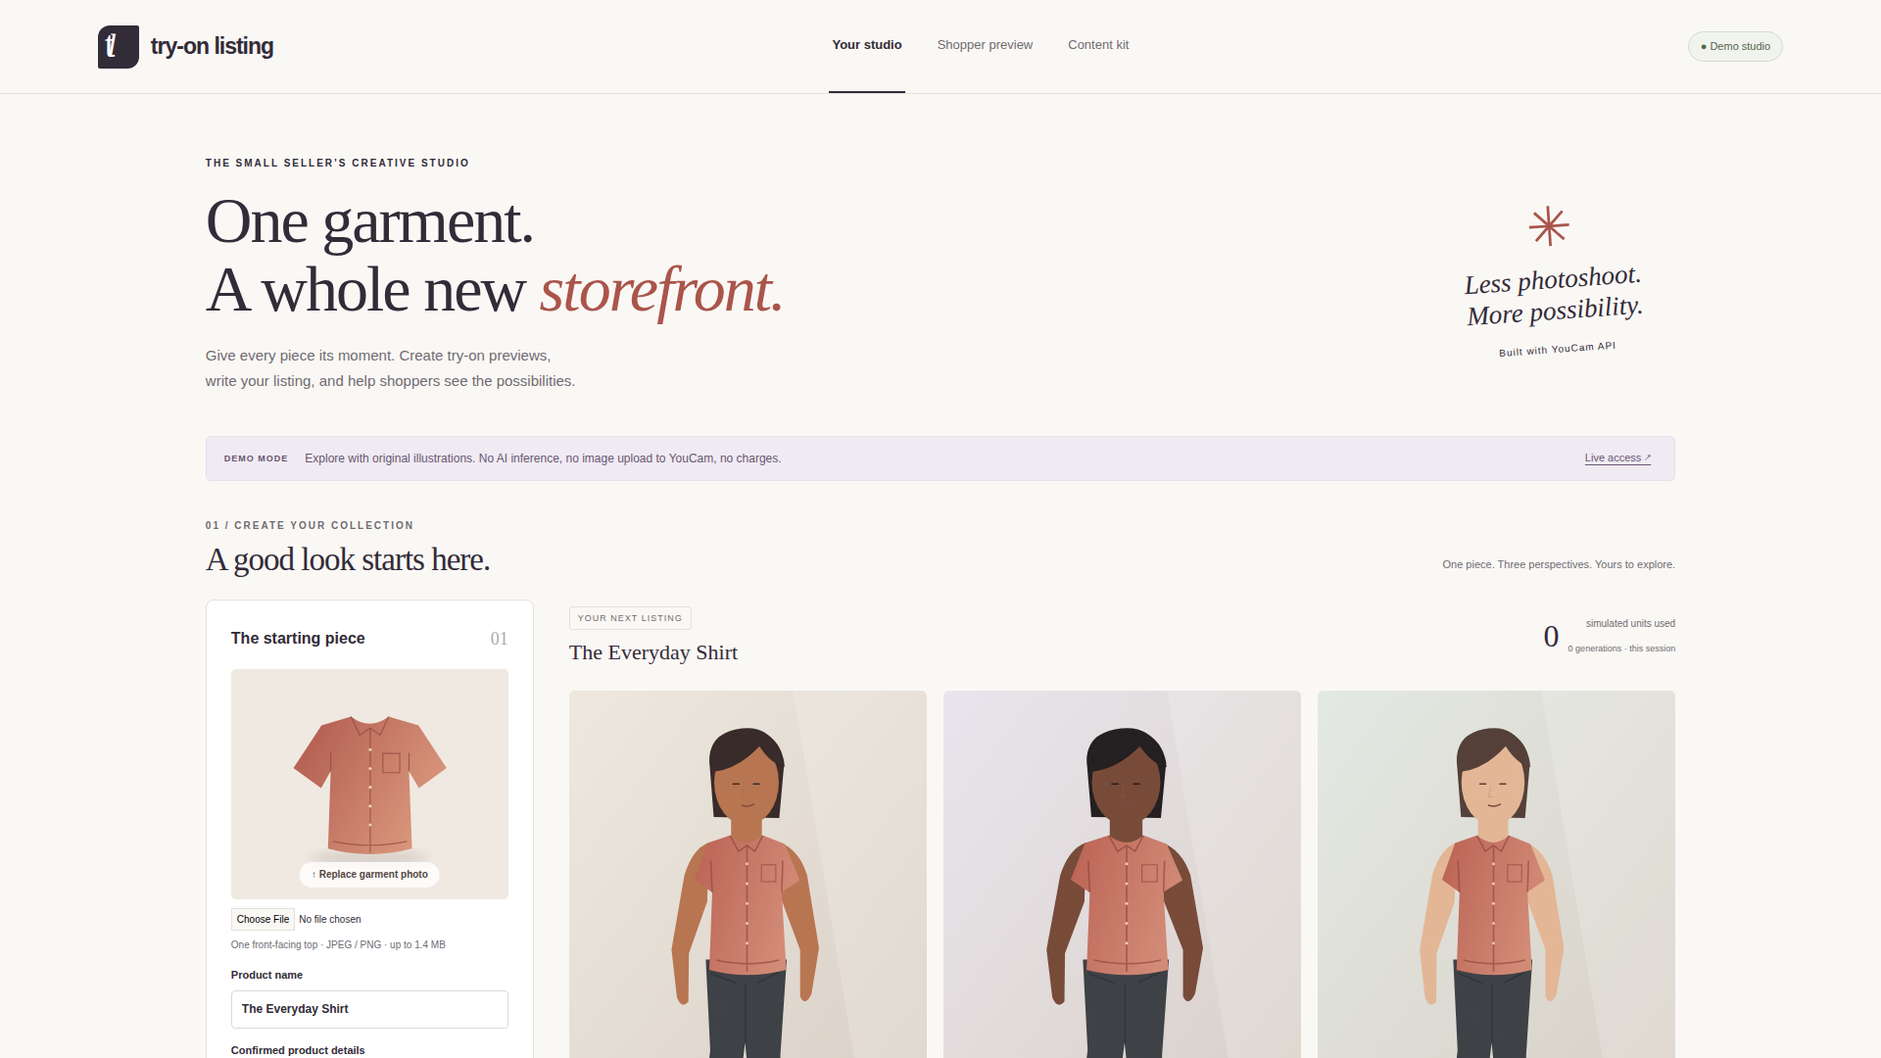
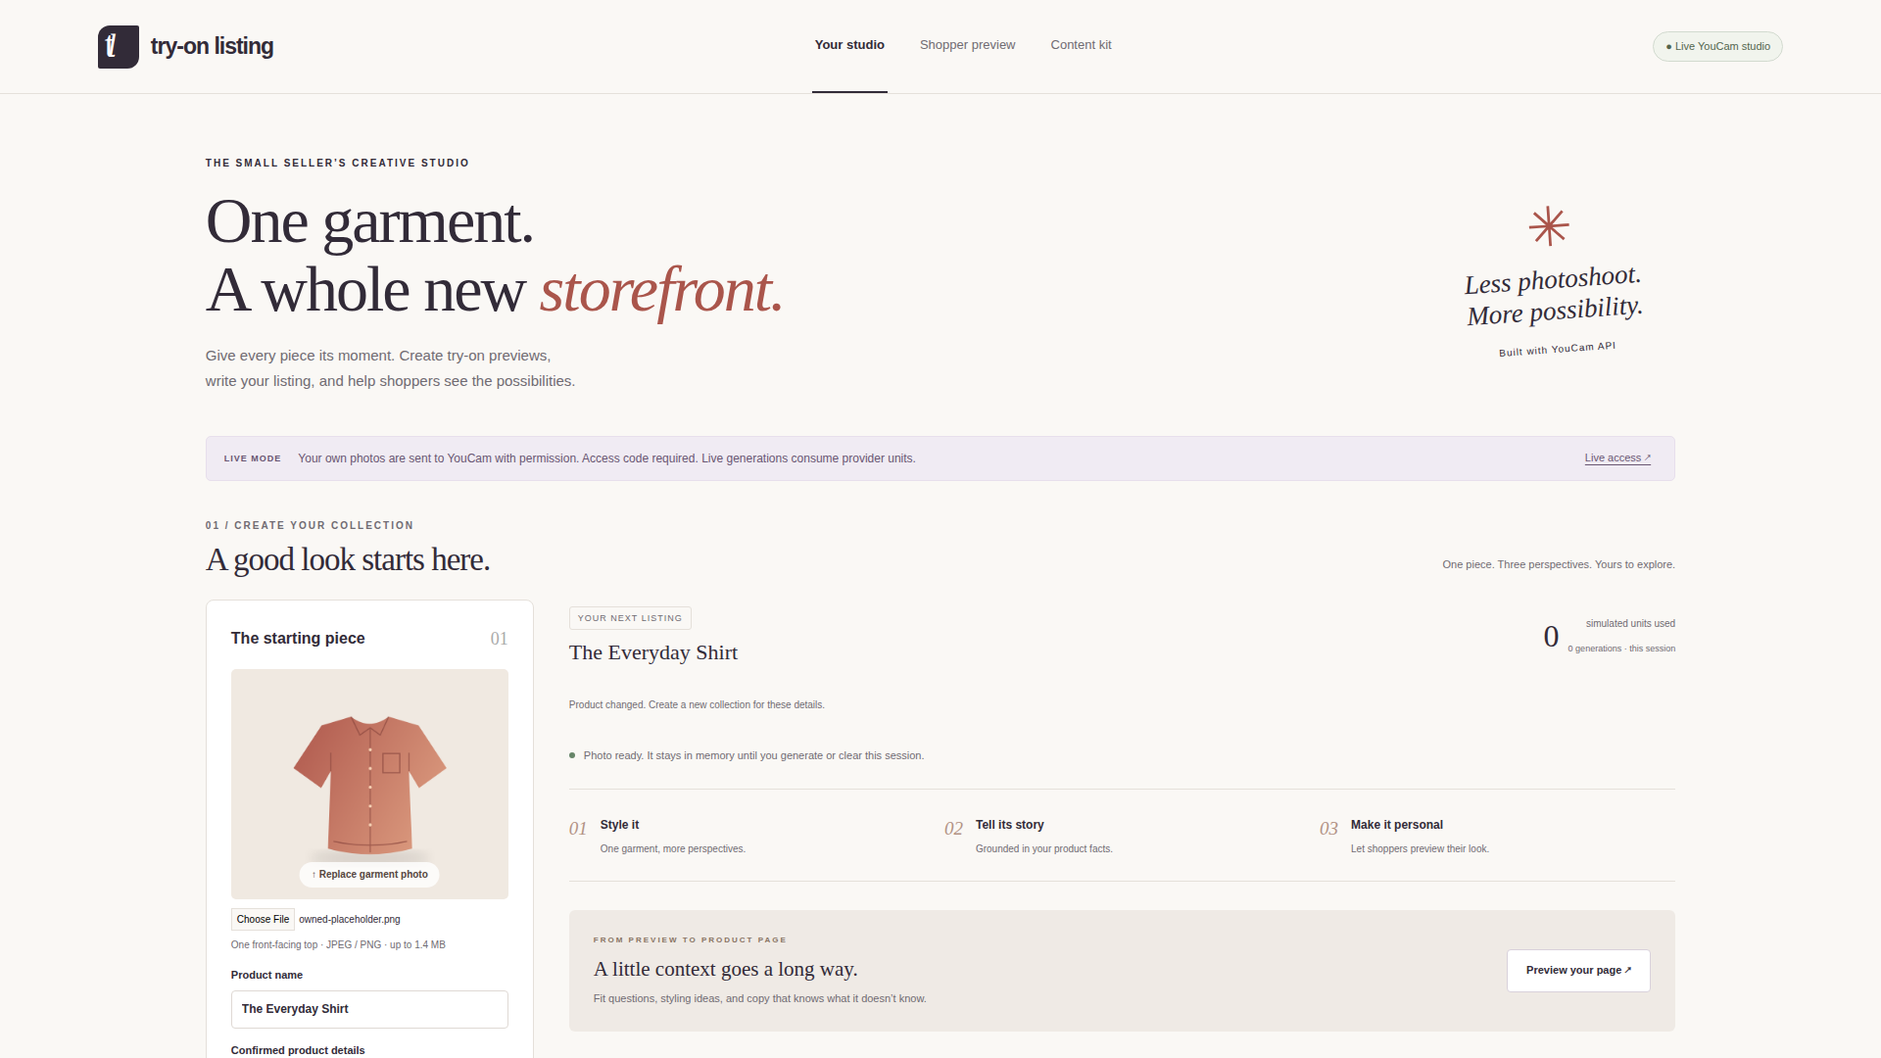
Enable verified live Nebius copy and YouCam production flows

diff --git a/src/commerce.js b/src/commerce.js
@@ -1,7 +1,7 @@
 // Reused from our MIT commerce-content-engine/src/core.js. Copyright (c) 2026 Kyoungsoo Kim.
 // Shared, dependency-free core. No DOM or Node APIs.
 export const PROVIDERS = {
-  nebius: { model: 'nvidia/NVIDIA-Nemotron-3-Nano-30B-A3B', baseUrl: 'https://api.tokenfactory.nebius.com/v1/' },
+  nebius: { model: 'nvidia/Nemotron-3_5-Lightning', baseUrl: 'https://api.tokenfactory.nebius.com/v1/' },
   openai: { model: 'gpt-5-mini', baseUrl: 'https://api.openai.com/v1' },
   anthropic: { model: 'claude-opus-5-5' },
   gemini: { model: 'gemini-2.5-flash' },
@@ -90,9 +90,14 @@ export function jsonObject(text) {
   throw new Error('Could not read a JSON content bundle. Ask the model to return the documented JSON schema.');
 }
 
+export function finalContent(text) {
+  if (typeof text !== 'string') return '';
+  return text.replace(/<think\b[^>]*>[\s\S]*?<\/think\s*>/gi, '').replace(/<think\b[^>]*>[\s\S]*$/gi, '').trim();
+}
+
 export function parseBundle(text) {
   if (typeof text !== 'string') throw new Error('Expected a JSON text response from the provider.');
-  const raw = jsonObject(text.replace(/```(?:json)?/gi, ''));
+  const raw = jsonObject(finalContent(text).replace(/```(?:json)?/gi, ''));
   if (!Object.keys(BUNDLE_SCHEMA).some(key => Object.hasOwn(raw, key) && raw[key] && typeof raw[key] === 'object')) {
     throw new Error('Unusable content bundle: no recognized sections (pdp, ads, shorts, thumbnails, listingCheck).');
   }
@@ -134,7 +139,7 @@ export async function callLLM({ provider = 'openai', apiKey = '', model, baseUrl
       url = `${base.href.replace(/\/$/, '')}/chat/completions`;
       headers.Authorization = `Bearer ${apiKey}`;
       body = { model, messages: [{ role: 'system', content: system }, { role: 'user', content: user }] };
-      if (provider === 'nebius') Object.assign(body, { max_tokens: maxTokens || 12000, temperature: 0.2 });
+      if (provider === 'nebius') Object.assign(body, { max_tokens: maxTokens || 4500, temperature: 0.2, response_format: { type: 'json_object' }, ...(model.toLowerCase().includes('nemotron') ? { chat_template_kwargs: { enable_thinking: false } } : {}) });
     } else if (provider === 'anthropic') {
       url = 'https://api.anthropic.com/v1/messages';
       Object.assign(headers, { 'x-api-key': apiKey, 'anthropic-version': '2023-06-01', 'anthropic-dangerous-direct-browser-access': 'true' });
@@ -156,9 +161,9 @@ export async function callLLM({ provider = 'openai', apiKey = '', model, baseUrl
       try { data = JSON.parse(text); } catch { data = { error: { message: text.slice(0, 400) || 'Empty response' } }; }
     } finally { clearTimeout(timer); signal?.removeEventListener('abort', abort); }
     if (!response.ok) throw new Error(`${provider} HTTP ${response.status}: ${data.error?.message || data.message || 'Request failed'}`);
-    const output = ['openai', 'nebius'].includes(provider) ? data.choices?.[0]?.message?.content
+    const output = finalContent(['openai', 'nebius'].includes(provider) ? data.choices?.[0]?.message?.content
       : provider === 'anthropic' ? list(data.content).filter(b => b.type === 'text').map(b => b.text).join('\n')
-        : list(data.candidates?.[0]?.content?.parts).map(b => b.text || '').join('\n');
+        : list(data.candidates?.[0]?.content?.parts).map(b => b.text || '').join('\n'));
     if (!str(output)) throw new Error(`${provider} returned no text. Check the model, token limits or provider safety response.`);
     if (data.choices?.[0]?.finish_reason === 'length') throw new Error('Model output was truncated. Reduce input size or raise the token budget.');
     return detailed ? { text: output, usage: data.usage || null, model: data.model || model } : output;

diff --git a/test/listing.test.js b/test/listing.test.js
@@ -1,7 +1,7 @@
 import test from 'node:test';
 import assert from 'node:assert/strict';
 import { demoListing, generateListing, productInput } from '../src/listing.js';
-import { parseBundle } from '../src/commerce.js';
+import { parseBundle, finalContent } from '../src/commerce.js';
 const product = { name: 'Quiet Shirt', facts: 'Terracotta shirt with a pocket.' };
 test('demo copy uses seller facts and flags unknown measurements', async () => {
   const result = await generateListing(product, { env: {}, fetchImpl: () => { throw new Error('No network in demo'); } });
@@ -26,7 +26,30 @@ test('live LLM uses env-configured OpenAI-compatible endpoint and parses bundle'
   assert.match(JSON.parse(call.options.body).messages[0].content, /untrusted/);
   assert.equal(result.mode, 'live'); assert.equal(result.bundle.pdp.headline, 'Quiet Shirt');
 });
-test('live errors are explicit and redact provider keys', async () => {
-  await assert.rejects(generateListing(product, { env: { LLM_API_KEY: 'private-test-value' }, fetchImpl: async () => new Response('{"error":{"message":"private-test-value rejected"}}', { status: 401 }) }), error => !error.message.includes('private-test-value') && error.message.includes('[redacted]'));
+test('live errors use safe visible demo fallback without provider secrets', async () => {
+  const result = await generateListing(product, { env: { LLM_API_KEY: 'private-test-value' }, fetchImpl: async () => new Response('{"error":{"message":"private-test-value rejected"}}', { status: 401 }) });
+  assert.equal(result.mode, 'demo');
+  assert.match(result.notice, /Live copy was unavailable/);
+  assert.ok(!JSON.stringify(result).includes('private-test-value'));
   assert.throws(() => parseBundle('nonsense'), /JSON/);
+});
+test('thinking is excluded even when it contains plausible bundle JSON', () => {
+  assert.equal(finalContent('<think>{"pdp":{"headline":"Reasoning"}}</think> final'), 'final');
+  assert.equal(finalContent('<think>unfinished private reasoning'), '');
+  const bundle = parseBundle('<think>{"pdp":{"headline":"Reasoning"}}</think>```json\n' + JSON.stringify(demoListing(product)) + '\n```');
+  assert.equal(bundle.pdp.headline, product.name);
+});
+test('Nemotron request disables thinking and ignores reasoning-only or truncated output', async () => {
+  for (const choice of [{ message: { content: null, reasoning_content: JSON.stringify(demoListing(product)) }, finish_reason: 'stop' }, { message: { content: JSON.stringify(demoListing(product)) }, finish_reason: 'length' }]) {
+    const result = await generateListing(product, { env: { LLM_API_KEY: 'test' }, fetchImpl: async (_, options) => {
+      const body = JSON.parse(options.body);
+      assert.equal(body.chat_template_kwargs.enable_thinking, false);
+      assert.deepEqual(body.response_format, { type: 'json_object' });
+      assert.equal(body.max_tokens, 4500);
+      assert.ok(options.signal);
+      return new Response(JSON.stringify({ choices: [choice] }));
+    } });
+    assert.equal(result.mode, 'demo');
+    assert.match(result.notice, /demo copy/);
+  }
 });

diff --git a/public/app.js b/public/app.js
@@ -1,5 +1,5 @@
 const $ = id => document.getElementById(id);
-let config = { mode: 'demo', copyMode: 'demo' }, access = '', garment = null, person = null, shopper = null, bundle = null, generation = 0, units = 0, unknownUnits = false, busy = false;
+let config = { mode: 'demo', copyMode: 'demo' }, copyResultMode = 'demo', access = '', garment = null, person = null, shopper = null, bundle = null, generation = 0, units = 0, unknownUnits = false, busy = false;
 let images = [], tokens = new Set(), epoch = 0;
 const photoVersion = { garment: 0, person: 0, 'shopper-photo': 0 };
 function invalidate() {
@@ -109,14 +109,14 @@ function renderContent() {
 }
 async function write(target) {
   if (busy) return; locked(true); status('content-status', 'Writing from your confirmed product facts…'); status('status', 'Preparing your content kit…');
-  try { const result = await api('listing', { name: $('product-name').value, facts: $('facts').value }); bundle = result.bundle; renderContent(); $('copy-mode').textContent = `${result.mode === 'demo' ? 'Deterministic demo copy · no LLM call' : 'Live LLM copy · check every claim'} · seller review required`; status('content-status', 'Content kit ready for review. Verify all product claims before publishing.'); status('status', 'Product page and content kit ready for review.'); tab(target); }
+  try { const result = await api('listing', { name: $('product-name').value, facts: $('facts').value }); bundle = result.bundle; copyResultMode = result.mode; renderContent(); $('copy-mode').textContent = `${result.notice || (result.mode === 'demo' ? 'Deterministic demo copy' : 'Live LLM copy · check every claim')} · seller review required`; status('content-status', result.notice || 'Content kit ready for review. Verify all product claims before publishing.'); status('status', result.notice || 'Product page and content kit ready for review.'); tab(target); }
   catch (error) { status('content-status', error.message, true); status('status', error.message, true); }
   finally { locked(false); }
 }
 $('write-listing').onclick = () => write('storefront'); $('write-content').onclick = () => write('content');
 $('download').onclick = () => {
   if (!bundle) return status('content-status', 'Generate your content kit first.', true);
-  const url = URL.createObjectURL(new Blob([JSON.stringify({ disclosure: 'Seller review required. Visual try-on does not predict physical fit.', copyMode: config.copyMode, ...bundle }, null, 2)], { type: 'application/json' }));
+  const url = URL.createObjectURL(new Blob([JSON.stringify({ disclosure: 'Seller review required. Visual try-on does not predict physical fit.', copyMode: copyResultMode, ...bundle }, null, 2)], { type: 'application/json' }));
   const a = document.createElement('a'); a.href = url; a.download = 'tryon-listing-content.json'; a.click(); setTimeout(() => URL.revokeObjectURL(url), 1000);
 };
 $('clear').onclick = async () => {

diff --git a/src/listing.js b/src/listing.js
@@ -10,6 +10,11 @@ export async function generateListing(raw, { env = process.env, fetchImpl = fetc
   const input = productInput(raw);
   if (!env.LLM_API_KEY) return { mode: 'demo', bundle: demoListing(raw) };
   const messages = buildMessages(input);
-  const text = await callLLM({ provider: 'nebius', apiKey: env.LLM_API_KEY, baseUrl: env.LLM_BASE_URL || 'https://api.tokenfactory.nebius.com/v1/', model: env.LLM_MODEL || 'nvidia/NVIDIA-Nemotron-3-Nano-30B-A3B', ...messages, fetchImpl, timeoutMs: 45000, maxTokens: 4500 });
-  return { mode: 'live', bundle: parseBundle(text) };
+  let result;
+  try {
+    result = await callLLM({ provider: 'nebius', apiKey: env.LLM_API_KEY, baseUrl: env.LLM_BASE_URL || 'https://api.tokenfactory.nebius.com/v1/', model: env.LLM_MODEL || 'nvidia/Nemotron-3_5-Lightning', ...messages, detailed: true, fetchImpl, timeoutMs: 45000, maxTokens: 4500 });
+    return { mode: 'live', bundle: parseBundle(result.text), usage: result.usage };
+  } catch {
+    return { mode: 'demo', bundle: demoListing(raw), usage: result?.usage || null, notice: 'Live copy was unavailable or invalid. Showing deterministic demo copy; no live result is claimed.' };
+  }
 }

diff --git a/README.md b/README.md
@@ -18,11 +18,11 @@ Demo: [tryon-listing.vercel.app](https://tryon-listing.vercel.app). Source: [kks
 
 ## Demo versus live
 
-**The public deployment initially runs in offline demo mode. No real YouCam or LLM inference has been tested.** Original SVG illustrations are fixed scenario fixtures; they do not reproduce an uploaded person or garment. Every demo result is labeled. There are no real people, third-party photos, brand logos or scraped media in this repository.
+**Live mode:** Production was verified on October 16, 2026 with one real YouCam cloth-v4 task and one real Nebius listing call. Our own original model/garment artwork was rasterized to PNG for this neutral placeholder check; no real person or third-party media was used. YouCam returned a new result, which was downloaded before confirmed task deletion. The account balance decreased by **2 units**. Nebius returned final JSON with **597 prompt + 1,100 completion = 1,697 tokens**, zero reasoning tokens and no fallback. Fresh screenshots and sanitized evidence are in `media/`. This verifies the integration with placeholders, not photographic quality or physical fit.
 
 With `YOUCAM_API_KEY`, YouCam mode switches automatically to live. With `LLM_API_KEY`, copy mode switches independently to live. Live requests require `STUDIO_ACCESS_TOKEN`, entered through **Live access** in the app, to protect provider units on a public deployment. There is no shared demo password in source. Without it, live calls are rejected. The prototype uses one seller workspace per browser session; it is not a multi-tenant marketplace, checkout system or durable product hosting platform.
 
-Live mode needs **your own real garment and model/shopper JPEG or PNG**, each under 1.4 MB (a conservative Vercel request-size limit), at least 512 × 384 pixels, maximum side 4096 px. Use one unobstructed standing person and one front-facing upper-body garment. Demo illustrations are not valid live source photographs. Model choices offer different skin tones and silhouette illustrations; the app does not infer protected characteristics or body measurements.
+Live mode accepts **your own garment and model/shopper JPEG or PNG**, each under 1.4 MB (a conservative Vercel request-size limit), at least 512 × 384 pixels, maximum side 4096 px. Use one unobstructed standing person and one front-facing upper-body garment for photographic previews. Original vector model choices remain offline fixtures; the live verification used PNG rasterizations explicitly as placeholders. The app does not infer protected characteristics or body measurements.
 
 ## Sponsor integration
 
@@ -36,7 +36,7 @@ Live mode needs **your own real garment and model/shopper JPEG or PNG**, each un
 
 [Official unit-system schema](https://docs.perfectcorp.com/_bundle/reference/unit_system.json?download) is used for `GET /credit/feature-cost?page_size=20`, pagination via `starting_token`. Pricing retrieval is separate from paid task creation so it cannot delay delivery of the task token.
 
-LLM requests reuse our MIT [Commerce Content Engine](https://github.com/kks0488/commerce-content-engine) message-building, input validation, parsing and OpenAI-compatible client, copied into `src/commerce.js`. The prompt treats product facts as untrusted data and marks missing facts. Defaults target [Nebius Token Factory’s documented endpoint](https://docs.tokenfactory.nebius.com/api-reference/introduction), `https://api.tokenfactory.nebius.com/v1/`. Set `LLM_MODEL` to an available model in your account. Another OpenAI-compatible endpoint, including Gemini’s compatible API with its appropriate model, can be configured via environment variables.
+LLM requests reuse our MIT [Commerce Content Engine](https://github.com/kks0488/commerce-content-engine) core, copied into `src/commerce.js` and adapted here without modifying that project. Defaults target [Nebius Token Factory](https://docs.tokenfactory.nebius.com/quickstart), `https://api.tokenfactory.nebius.com/v1/`, model `nvidia/Nemotron-3_5-Lightning`. Nemotron requests set `chat_template_kwargs.enable_thinking=false` and [JSON mode](https://docs.tokenfactory.nebius.com/ai-models-inference/json), allow 4,500 output tokens and time out after 45 seconds. Only final `content` is parsed; think blocks, empty/reasoning-only and truncated answers are rejected. Failed or invalid copy returns deterministic fixtures with a visible fallback notice and accurate export mode. YouCam failures remain visible errors and never become fake live images.
 
 ## Architecture
 
@@ -70,14 +70,16 @@ For live configuration, copy `.env.example` to `.env`, fill in server-only value
 
 | Variable | Purpose |
 | --- | --- |
-| `YOUCAM_API_KEY` | Enables live YouCam VTO; owner supplies this |
-| `STUDIO_ACCESS_TOKEN` | Required for paid live endpoints; owner chooses a private studio access code |
+| `YOUCAM_API_KEY` | Enables live YouCam VTO; configured only in Vercel production |
+| `STUDIO_ACCESS_TOKEN` | Random private studio access code, stored only in Vercel production; required for live endpoints |
 | `LLM_API_KEY` | Enables live copy generation |
 | `LLM_BASE_URL` | OpenAI-compatible base URL; defaults to Nebius Token Factory |
-| `LLM_MODEL` | Model available to your provider account; default target is `nvidia/NVIDIA-Nemotron-3-Nano-30B-A3B` |
+| `LLM_MODEL` | Default `nvidia/Nemotron-3_5-Lightning` |
 | `PORT` | Optional local port; default 3000 |
 
 On Vercel, set these through the project’s environment settings and redeploy; `.env` is not uploaded. The committed `vercel.json` serves `public/` and routes `/api/*` to the Node function.
+
+YouCam V2 uses the secret API key directly as a bearer credential. Its current official schema requires no RSA encryption/signature or `YOUCAM_PUBLIC_KEY`; the legacy public key is unused. The conductor/owner can manage `STUDIO_ACCESS_TOKEN` in Vercel; it is never included in source, logs or screenshots. Unauthorized requests receive 401.
 
 Tests use Node’s built-in runner and mocked official response shapes. They cover file validation, signed upload flow, task creation/polling, response download before deletion, expired/tampered capabilities, access protection, pricing pagination, and demo/live content generation. GitHub Actions runs them on push and pull request.
 
@@ -90,7 +92,7 @@ CHROMIUM_EXECUTABLE=/home/pilot/.cache/ms-playwright/chromium-1228/chrome-linux6
 BASE_URL=http://127.0.0.1:3087 npm run capture
 ```
 
-Verified: **15 Node tests pass**. The deployed demo passed desktop/mobile Playwright flows; additional intercepted live-mode UI checks verified permission payloads and authorization during cleanup without calling a real provider. Screenshots and browser results are in `media/`; desktop 1920 × 1080 and mobile 390 × 844. Captures exercise the real app in demo mode. Stop the temporary server afterward. These are source material for the shared Remotion kit, not the finished submission video.
+Verified: **17 Node tests pass**. The production app passed the real live seller VTO and listing flow from Playwright on pilot with no runtime errors. Existing `media/01`–`05` screenshots were replaced at exactly 1920 × 1080; `06-mobile.png` shows the production mobile view. `04-shopper-consent.png` shows the live consent screen, not a second VTO run. `media/capture-results.json` records provider deletion, modes and token usage. For repeat captures, set `LIVE_CAPTURE=1`, `BASE_URL` to production and pipe the studio access token into the existing capture script over stdin. It performs exactly one VTO task and one listing call; it never records the password field. No dev servers remain. These are inputs for the shared Remotion kit, not the final video.
 
 ## Privacy and practical limits
 
@@ -98,14 +100,14 @@ Photo inputs and results stay in application memory; the app writes neither to d
 
 In live mode YouCam receives images. Its [task-management API](https://docs.perfectcorp.com/_bundle/reference/task_management.json?download) supports deletion of finished tasks and associated inputs/outputs. Completed results trigger that request, with a retry control if it fails. Running tasks cannot be deleted. Closing the page, a network failure, an upload failure before task creation, or a process interruption can leave provider files/tasks behind. Keep the page open and retry deletion for interrupted tasks once they finish; task capabilities last 24 hours and are lost on page close. The app cannot promise immediate deletion in those cases. Provider retention beyond those APIs was not verified.
 
-Virtual try-on predicts appearance, not physical size or fit. No inferred measurements or fit guarantees. Generated copy requires seller review; fabric, sizing, care, price and policies need confirmed facts. No claim that this prototype has reduced returns or improved conversion has been measured. Live photo quality, provider latency, real billing and model availability still require key-backed validation. Request timeouts are bounded for Vercel’s configured 60-second functions; interrupted requests remain a lifecycle risk.
+Virtual try-on predicts appearance, not physical size or fit. No inferred measurements or fit guarantees. Generated copy requires seller review; fabric, sizing, care, price and policies need confirmed facts. No claim that this prototype has reduced returns or improved conversion has been measured. Photographic quality and actual-person shopper flow still need separate verification. Request timeouts are bounded for Vercel’s configured 60-second functions; interrupted requests remain a lifecycle risk.
 
 ## Hackathon submission requirements
 
 Read with curl: [overview](https://youcam-api-skin-ai-ecommerce.devpost.com), [rules](https://youcam-api-skin-ai-ecommerce.devpost.com/rules), [resources](https://youcam-api-skin-ai-ecommerce.devpost.com/resources).
 
 - Deadline: **November 2, 2026, 11:45 a.m. Eastern**. Build must be new or substantially improved during the September 29–November 2 submission period.
-- Functional prototype using at least one YouCam API, with clear consumer or retail value. **Offline fixtures alone do not prove this requirement: obtain the key and verify live mode before submission.**
+- Functional prototype using at least one YouCam API, with clear consumer or retail value. The real cloth-v4 integration was verified with owned neutral placeholders; photographic quality still needs owner review.
 - English project description explaining features and value; source/assets/run instructions and license; freely accessible working demo/test access for judges.
 - **Video required: public 1–3 minute end-to-end demo**, showing the app running and explaining YouCam use. Rules name YouTube (preferred) or Vimeo. Screenshots in this repository are not a substitute. The owner must provide/upload the final video URL.
 - Judging: technical implementation, design, impact and quality of idea. Winners must participate in an exit interview.
